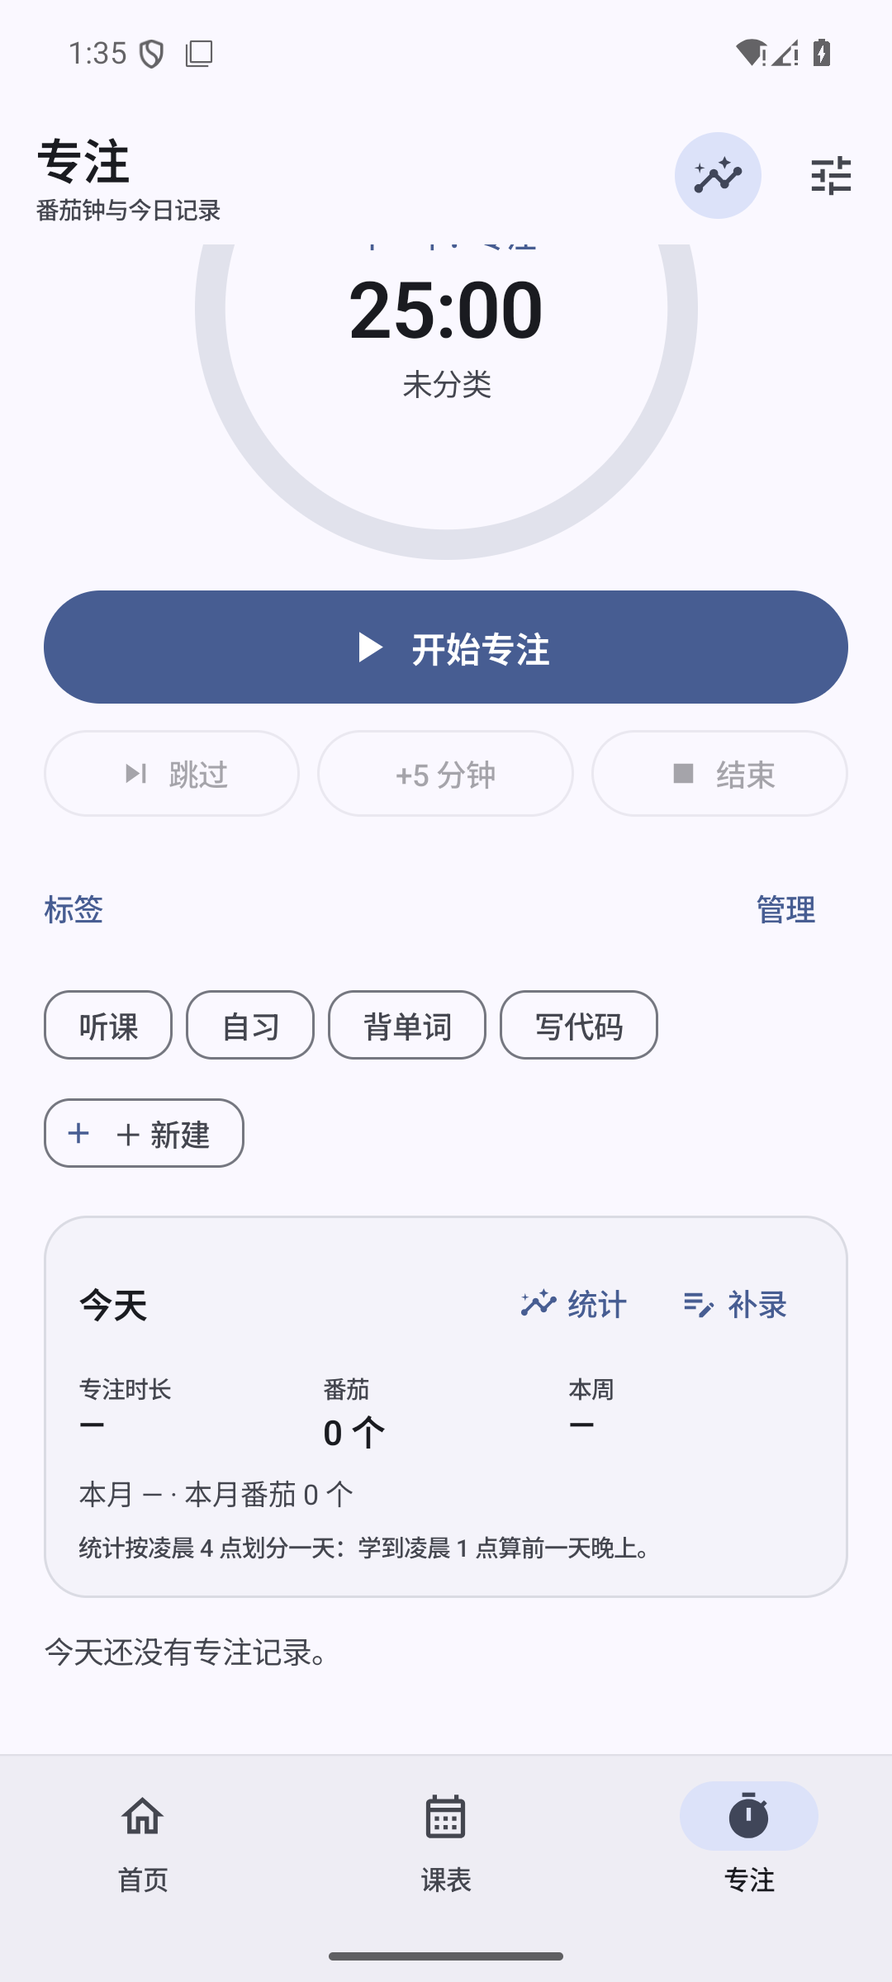
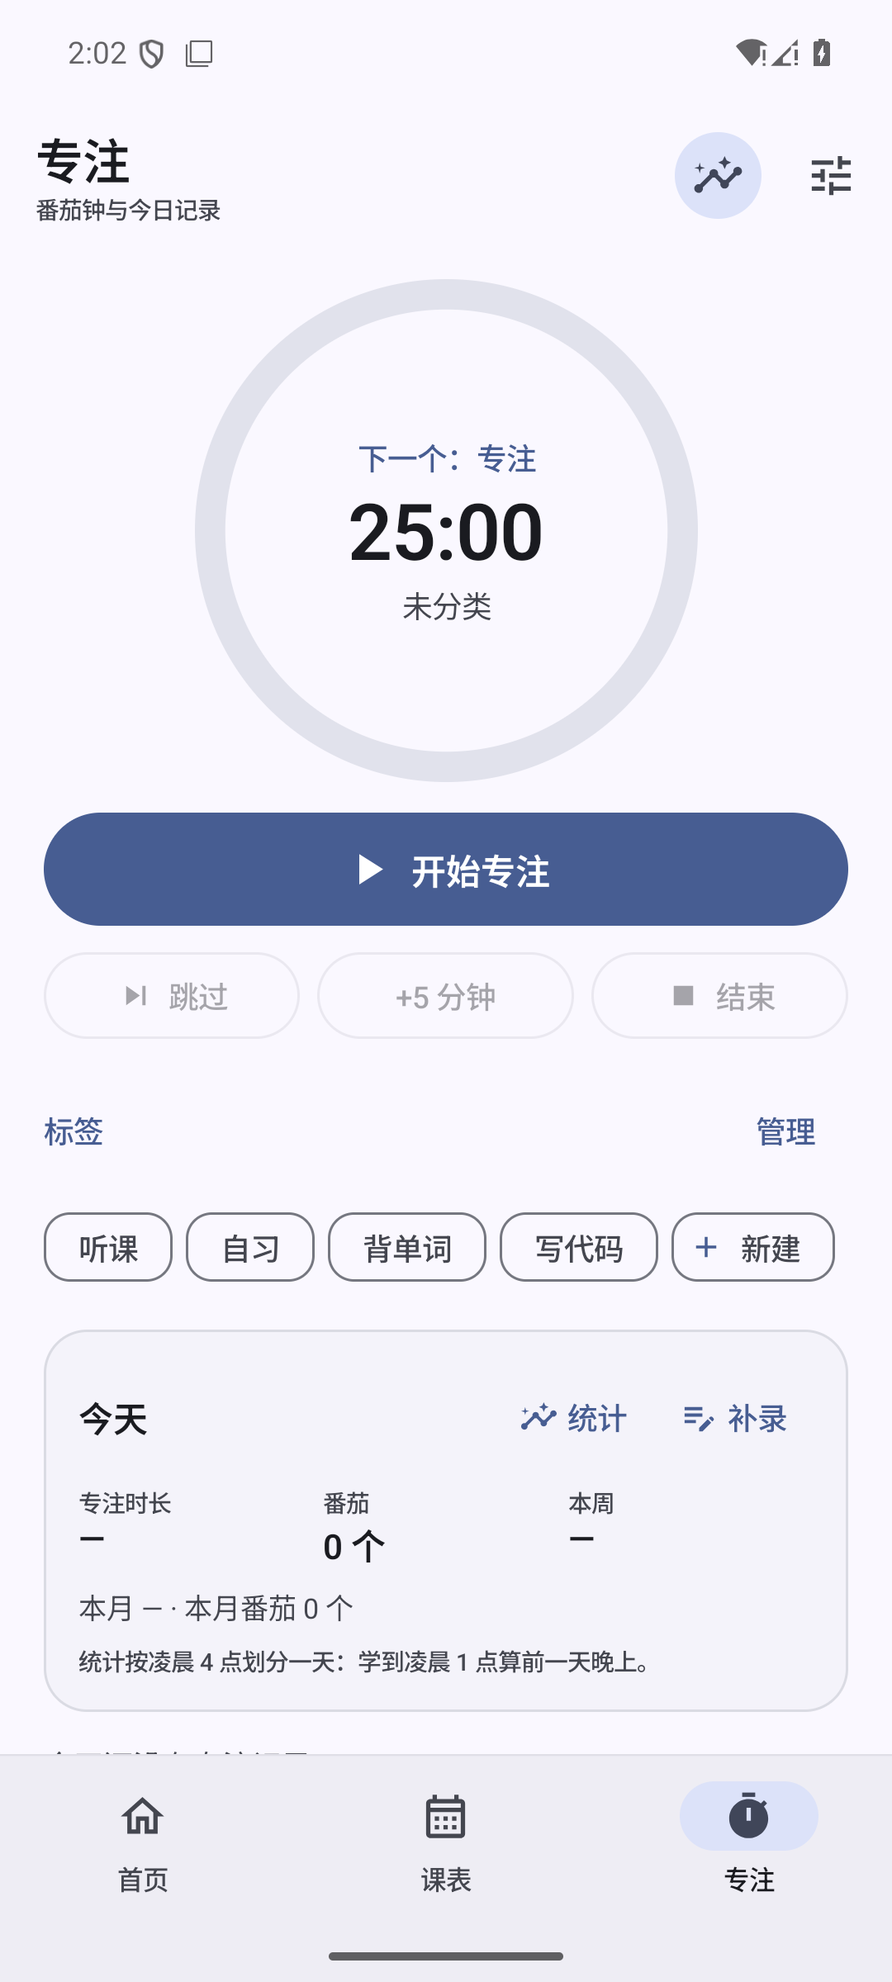
fix(m5): correct focus landing capture and tag chip

diff --git a/app/src/main/java/com/upcpocket/app/ui/settings/SettingsScreen.kt b/app/src/main/java/com/upcpocket/app/ui/settings/SettingsScreen.kt
@@ -43,7 +43,7 @@ import com.upcpocket.app.ui.components.NavigationRow
 import com.upcpocket.app.ui.components.SectionHeader
 
 /**
- * 全应用唯一设置入口。
+ * 全应用唯一设置入口；不是每项功能唯一快捷入口（校园网页、学习统计仍有各自的快捷路径）。
  *
  * 账号、图书馆登录、桌面组件、官方网页、外观和关于都在这里；不再维护“更多”
  * 页的第二套目录。插件只贡献图书馆登录区，宿主不硬编码图书馆实现。

diff --git a/app/src/test/java/com/upcpocket/app/core/HostPluginUiTest.kt b/app/src/test/java/com/upcpocket/app/core/HostPluginUiTest.kt
@@ -70,6 +70,9 @@ class HostPluginUiTest {
             listOf("timetable.week", "focus"),
             tabs.map { it.route.value },
         )
+        tabs.forEach { tab ->
+            assertNotNull("tab ${tab.entryId} 缺少已注册页面", AppGraph.ui.page(tab.route))
+        }
         assertTrue(AppGraph.ui.entriesFor(UiSurface.MORE_LEARNING).isEmpty())
 
         assertEquals(

diff --git a/feature/focus/src/main/kotlin/com/upcpocket/app/ui/focus/FocusScreen.kt b/feature/focus/src/main/kotlin/com/upcpocket/app/ui/focus/FocusScreen.kt
@@ -411,7 +411,7 @@ private fun TagSection(
             FilterChip(
                 selected = false,
                 onClick = onNew,
-                label = { Text("＋ 新建") },
+                label = { Text("新建") },
                 leadingIcon = {
                     Icon(Icons.Filled.Add, contentDescription = null, Modifier.size(16.dp))
                 },

diff --git a/docs/m5/README.md b/docs/m5/README.md
@@ -23,6 +23,8 @@ M0—M4 的认证、缓存、清理与接口语义，只重新组织入口、页
 | 专注 | 计时、今日记录、学习统计 | `:feature:focus` |
 
 设置不再作为 tab，统一从首页右上角进入。首页/课表/专注之外没有第二套“更多目录”。
+**设置入口全局唯一，但不宣称每项功能只有一个快捷路径**：校园官方网页在首页快捷卡和设置目录
+各有一个入口；学习统计在专注顶栏和今日卡片各有一个入口。两处都打开同一页面/路由，不是两套实现。
 
 设置页固定分组：
 
@@ -49,6 +51,7 @@ M0—M4 的认证、缓存、清理与接口语义，只重新组织入口、页
 | 首页电费 / 空教室 / 图书馆 | 首页“常用服务”（课表不重复出现在这里） |
 | 桌面组件由长按桌面添加 | 仍由系统桌面添加；新增设置 → 桌面组件说明与可选“添加到桌面” |
 | 古镇口电费学校页面 | 电费页保留；设置 → 校园官方网页也提供入口 |
+| 校园官方网页 | 首页“校园网页”快捷卡 / 设置 → 校园官方网页（同一页面） |
 | 桌面组件点击 | 校园卡回首页；电量直达唐岛湾查询页，稳定路由不变 |
 
 ### 1.3 功能完整性
@@ -62,6 +65,7 @@ M0—M4 的认证、缓存、清理与接口语义，只重新组织入口、页
 - 课表：正常 CAS、单周按需查询、离线缓存、验证码网页登录回退、账号归属与迟到响应隔离不变。
 - 专注：计时、今日记录、标签、统计、补录与前台服务不变；统计不再从“更多”重复出现。
 - 官方网页：新增宿主只读目录，链接来自 `docs/upc/官方入口.md`；不预填账号、不代理登录。
+  首页快捷卡与设置目录打开同一个 `OfficialWebScreen` 路由，不重复维护链接。
 - 组件：两个 2×2 RemoteViews 组件、请求路径、身份和点击身份不变；新增设置页说明/可选 pin。
 
 ### 1.4 视觉方向
@@ -102,6 +106,22 @@ M0—M4 的认证、缓存、清理与接口语义，只重新组织入口、页
 - 设置里的学校登录区只在图书馆插件贡献存在时显示。
 - 旧 `MORE_LEARNING` 贡献被静默保留但不可达；现有自动化确认没有把课表/统计再放进“学习”列表。
 
+### 2.1 路由与删除文件审计
+
+- 稳定插件页路由未改：`power.electricity`、`power.tangdaowan`、`classroom.free`、
+  `library.seat`、`library.login`、`focus`、`focus.stats`、`timetable.week` 仍全部注册。
+  `HostPluginUiTest` 现在额外断言所有底部 tab 的目标页确实存在。
+- `CampusScreen` 是旧“更多”宿主页，只承载入口列表，不包含任一官方 URL 或浏览器跳转；
+  其账号/课表/统计/图书馆登录/外观/关于能力已分别迁移到三 tab 与设置。删除的是入口页壳，
+  不是功能实现。
+- `WeChatHandoff` 在删除前的基线中没有任何调用点（`git grep` 只命中文件自身）；它既没有
+  路由，也没有 UI 按钮。删除的是不可达工具代码；没有移除任何可达的微信登录、分享或官方入口能力。
+- 既有学校外链仍保留在原功能内（如古镇口电量页、图书馆学校登录）；新增
+  `OfficialWebScreen` 只是把已核对的公开页面集中列出。没有把外链说成原生查询，也没有
+  新增未实现的校园能力。
+- 桌面组件身份未变：校园卡仍打开 `HOME`，唐岛湾电量仍打开稳定路由
+  `power.tangdaowan`；设置页只是新增组件说明与系统 pin 入口。
+
 ## 3. 截图
 
 截图均来自本会话模拟器 `emulator-5554`（Android 16 / API 36，1080×2400，Pixel 风格），
@@ -110,9 +130,9 @@ M0—M4 的认证、缓存、清理与接口语义，只重新组织入口、页
 | 文件 | 内容 |
 | --- | --- |
 | [01-home-light.png](screenshots/01-home-light.png) | 首页浅色；未登录、无历史余额 |
-| [02-settings-light.png](screenshots/02-settings-light.png) | 唯一设置入口；账号、图书馆、组件、官方网页、外观、关于 |
+| [02-settings-light.png](screenshots/02-settings-light.png) | 唯一设置入口；账号、图书馆、组件、官方网页、外观、关于（校园网页另有首页快捷卡） |
 | [03-timetable-first-run-light.png](screenshots/03-timetable-first-run-light.png) | 课表未登录第一屏；说明不会在首页后台认证 |
-| [04-focus-light.png](screenshots/04-focus-light.png) | 专注浅色；无专注记录 |
+| [04-focus-light.png](screenshots/04-focus-light.png) | 专注初始进入浅色；完整计时环、状态、开始按钮，无专注记录 |
 | [05-appearance-light.png](screenshots/05-appearance-light.png) | 配色与深浅色设置 |
 | [06-home-dark.png](screenshots/06-home-dark.png) | 首页深色 |
 | [07-timetable-preview.png](screenshots/07-timetable-preview.png) | **Debug-only 合成预览**：教学周头部 + 今日课程 |
@@ -122,6 +142,9 @@ M0—M4 的认证、缓存、清理与接口语义，只重新组织入口、页
 | [12-official-web-light.png](screenshots/12-official-web-light.png) | 学校官方网页目录 |
 | [14-home-large-font.png](screenshots/14-home-large-font.png) | 首页 1.3× 字号 |
 | [19-timetable-font-150.png](screenshots/19-timetable-font-150.png) | **Debug-only 合成预览**：课表 1.5× 字号 |
+| [20-focus-font-130.png](screenshots/20-focus-font-130.png) | 专注初始进入 1.3×；完整计时环、状态、开始按钮 |
+| [21-focus-font-150.png](screenshots/21-focus-font-150.png) | 专注初始进入 1.5×；完整计时环、状态、开始按钮 |
+| [22-home-font-150.png](screenshots/22-home-font-150.png) | 首页 1.5×；标题/服务卡文字完整，可滚动到两组服务与页脚 |
 
 合成预览由 `feature/timetable/src/debug/.../TimetablePreviewActivity.kt` 明确标注
 “本地预览 · 合成内容”，只读取内存中的 `TimetableUiState`，不创建账号/会话/缓存、不发网络请求，
@@ -130,13 +153,22 @@ M0—M4 的认证、缓存、清理与接口语义，只重新组织入口、页
 学校账号页因 `FLAG_SECURE` 不提供截图；已通过 `dumpsys window` 确认窗口 flag 含 `SECURE`，
 并只核对空表单 UI 层级。没有截取任何已填账号或密码。
 
+验收修正：此前交付的 `04-focus-light.png` 是验收脚本在专注页已向上滑动后截取的，环顶被
+固定顶栏遮住；它不是初始进入状态。本轮先强制停止并从首页进入专注，再重新截图，未通过删除
+状态文案或裁切视图规避问题。初始进入实测：顶栏副标题底边 y=273/286/293（1.0/1.3/1.5），
+计时环顶 y=338，开始按钮底边 y=1083/1091/1096，环、状态和主按钮均完整。
+
 ## 4. 验证
 - 设备：`emulator-5554` / `upcpocket_api36` / Android 16（API 36）；实际安装 Debug APK。
 - 页面：首页、设置、账号空态、课表未登录、专注、桌面组件、官方网页、外观；底部三 tab 切换。
 - 系统 Insets：宿主底部 `NavigationBar` + 各 tab 内 `Scaffold` 只消费顶部/横向 Insets，
   修正了内层重复底部 inset；手势导航栏/状态栏无遮挡。
 - 深浅色：首页浅色、深色；外观页切换“始终深色/始终浅色”后重启生效。
-- 字号：1.0×、1.3×、1.5× 实测；首页、设置、课表、专注未出现按钮/文字重叠。
+- 字号：1.0×、1.3×、1.5× 实测；首页、设置、课表、专注未出现按钮/文字重叠。专注 1.0/1.3/1.5
+  初始进入的环顶、状态与开始按钮均完整；1.5× 下 360×640dp 视口可滚动到标签/今日记录。
+- 小屏：`wm size 720x1280`、`wm density 320`（360×640dp）+ 1.5× 实测，初始显示计时环与开始按钮，
+  上滑后显示标签和今日区域；已恢复 1080×2400/420dpi。
+- 文案：标签按钮原为图标加号 + “＋ 新建”双加号，现为 Add 图标 + “新建”单加号。
 - 返回：设置 → 账号/外观/组件/官方/关于均能返回；官方网页实际打开 Chrome 后返回应用。
 - 边界：未登录、无数据、合成周网格、空“今天”、离线/失败状态代码路径；没有触发真实学校登录、
   预约、取消、签到、充值或电量查询。
@@ -146,12 +178,12 @@ M0—M4 的认证、缓存、清理与接口语义，只重新组织入口、页
 
 | 检查 | 结果 |
 | --- | --- |
-| `:app:assembleDebug` | 通过 |
-| Android Debug 单元/Compose 测试 | **50 套件 / 357 tests，0 failures / 0 errors / 0 skipped** |
-| JVM 测试（`:core:plugin-runtime:test`） | **16 tests，0 failures / 0 errors / 0 skipped** |
-| `:app:lintDebug` | **0 errors / 2 warnings**（`RedundantLabel`、`ObsoleteSdkInt`，均为既有资源提示） |
+| `:app:assembleDebug` | 通过（修正提交后复跑） |
+| Android Debug 单元/Compose 测试 | M5 首轮全量 **50 套件 / 357 tests，0 failures / 0 errors / 0 skipped**；本轮按影响范围复跑 `focus` + `app` 用例，仍 0 failures |
+| JVM 测试（`:core:plugin-runtime:test`） | **16 tests，0 failures / 0 errors / 0 skipped**（M5 首轮；本轮未改该模块，未无故重跑） |
+| `:app:lintDebug` | **0 errors / 2 warnings**（`RedundantLabel`、`ObsoleteSdkInt`，均为既有资源提示；修正提交后复跑） |
 | 模块边界 | `checkModuleBoundaries` 随构建通过 |
-| 基线 | M4 357 Android + 16 JVM 全部保留；插件 tab 断言更新为课表(5)+专注(10) |
+| 基线 | M4 357 Android + 16 JVM 全部保留；插件 tab 断言更新为课表(5)+专注(10)，并断言 tab 目标页存在 |
 
 `./gradlew test` 还会触发 release unit test；其中 Compose UI 测试依赖 debug-only
 `ui-test-manifest`，release 变体无法启动 instrumentation，属于现有测试基础设施限制，
@@ -162,8 +194,8 @@ M0—M4 的认证、缓存、清理与接口语义，只重新组织入口、页
 
 - 评审副本：`release/UPC-Pocket-M5-preview-debug.apk`
 - 构建产物：`app/build/outputs/apk/debug/app-debug.apk`
-- 大小：`65,112,090` bytes
[1 lines of base64/hex data omitted]
+- 大小：`65,718,286` bytes
[1 lines of base64/hex data omitted]
 - 该 APK 为 debug 构建、含 debug-only 合成课表预览 Activity；release 构建不会合并它。未上传、未发布。
 
 ## 6. 未验证 / 限制

diff --git a/README.md b/README.md
@@ -56,7 +56,7 @@ Debug-only 合成预览，不是真实课程。
 - **M2 开发分支（尚未发布）**把校园卡余额查询目标收束到当前统一账号：只读取登录名整串符合 8–16 位数字的本人学号，不再使用页面独立学号输入；无账号、恢复中、清理中、密文不可用或登录名不是有效学号时不联网。页面、2×2 组件和 WorkManager Worker 共用同一绑定服务；换号立即撤下旧余额，同号改密保留历史值但拒绝旧请求。组件最终写入使用 ticket 与绑定/账号代次/业务代次/快照版本门闩，迟到的旧读取不能覆盖新空态。旧 `card-balance-v1.json` 仅在用户绑定同一学号后迁移，异号/损坏/未绑定不展示。余额缓存清除与删除账号分开，清除失败会继续隐藏旧值并可在重启后重试。详见 [M2 执行记录](docs/m2/README.md)。
 - **M3 开发分支（尚未发布）**新增“课表”tab：使用当前统一账号的正常 CAS 表单认证，只在核对后的 `cas.upc.edu.cn` HTTPS 页面提交密码；缺失或明确失效的课表业务会话最多恢复一次，错误密码不循环尝试，验证码/二次验证转到学校正常网页登录。首入只查询当前教学周，切周按需查询，不遍历整学期、不周期轮询。课程按周日起算的学校周次与 ISO weekday 对齐，保留非连续节次、单双周源周次与重叠课程；未提供字段显示“未提供”。成功周按内部 accountId + 学年/学期/教学周加密/原子缓存，离线只显示已成功查询周；换号/删号清理会话与缓存，迟到响应不写回。详见 [M3 执行记录](docs/m3/README.md)。
 - **M4 开发分支（尚未发布）**图书馆座位新增“使用已保存学校账号登录”：通过正常 CAS 表单完成 libseat 统一认证、app token 与 seat token 兑换，并用 `/rest/v2/user` 核验返回本人与保存账号一致；手动 WebView 登录也经同一受控账号身份契约核验，A 账号下登录 B 不会发布或持久化。会话绑定 accountId/凭据代次，换号/删号/改密/清理失败时阻止旧会话恢复，旧恢复/旧自动/旧手动失败不能删除新登录。验证码或二次验证仍转到学校官方网页登录；没有保存账号时手动网页会话只保留内存。`nspace` 与 Chaoxing 四入口仍未原生接入，座位写操作不在本轮范围。详见 [M4 执行记录](docs/m4/README.md)。
-- **M5 开发分支（尚未发布，第一版待评审）**顶级导航收束为 **首页 / 课表 / 专注**，取消“更多”tab；账号、图书馆登录、桌面组件、校园官方网页、外观和关于统一从首页右上角设置进入。首页服务卡仍由插件贡献，课表/专注 tab 由插件贡献；旧入口映射见 [M5 记录](docs/m5/README.md)。视觉去掉玻璃叠层，课表重做教学周/今日课程/横向周网格/详情和离线/空周/失败状态；未添加 Navigation 3、AGP 9、Glance 或未实现的校园能力。
+- **M5 开发分支（尚未发布，第一版待评审）**顶级导航收束为 **首页 / 课表 / 专注**，取消“更多”tab；账号、图书馆登录、桌面组件、校园官方网页、外观和关于统一从首页右上角设置进入，校园网页同时在首页保留快捷卡。首页服务卡仍由插件贡献，课表/专注 tab 由插件贡献；旧入口映射见 [M5 记录](docs/m5/README.md)。视觉去掉玻璃叠层，课表重做教学周/今日课程/横向周网格/详情和离线/空周/失败状态；未添加 Navigation 3、AGP 9、Glance 或未实现的校园能力。
 - 部分校园服务使用 HTTP；古镇口电费保留官方页面入口，证书或网络异常时可能无法访问，不绕过证书校验。课表/CAS 只走 HTTPS，不关闭证书校验。
 - 当前轻量版不包含课程编辑、日历导出、提醒、课表桌面组件、校园卡流水、充值、数字石大或图书馆主页入口。
 

diff --git a/docs/CHANGELOG.md b/docs/CHANGELOG.md
@@ -3,13 +3,14 @@
 ## M5 · 首页/课表/专注与统一设置入口（开发分支，未发布）
 
 - 顶级导航收束为 **首页 / 课表 / 专注**：课表从“更多 → 学习”提升为插件 tab（order 5），专注 tab 保留（order 10）；删除宿主“更多”页与旧学习统计入口。
-- 首页改为日期问候、校园卡摘要和“常用服务”四宫格；账号、图书馆登录、桌面组件、官方网页、外观、关于统一收进首页右上角设置。
+- 首页改为日期问候、校园卡摘要和“常用服务”四宫格；账号、图书馆登录、桌面组件、官方网页、外观、关于统一收进首页右上角设置；校园网页同时保留首页快捷卡，学习统计同时保留专注顶栏/今日卡入口（同一路由，不是两套实现）。
 - 新增原生设置页、桌面组件说明/可选系统 pin、学校官方网页外链目录；官方链接来自既有 `docs/upc/官方入口.md`，不预填账号、不代理登录。
 - 视觉系统去掉半透明玻璃叠层/重阴影，统一 `surfaceContainerLow + 1dp outlineVariant + 20dp` 卡片、字号层级、20dp 页面边距和 filled/outlined 图标状态。
 - 课表重做教学周头部、今日课程、7 天×14 节横向周网格、重叠分栏、当前日强调、在线/缓存/空周/未查询/失败标签和课程详情；缺失字段仍显示“未提供”，不推测量纲/钟点/校区。
 - 校园卡卡片保留账号绑定、脱敏、历史值、失败、清除缓存和安全说明；安全细节改为可展开，不删除语义。账号页 `FLAG_SECURE` 与密码清空保留。
 - 插件契约未新增字段；课表/专注改用既有 `PluginBottomNav`，`MORE_LEARNING` 保留枚举兼容但不再挂载。缺插件仍由宿主原子裁剪，无空 tab。
 - 修复宿主底部导航与内层 Scaffold 重复消费底部 Insets；`adjustResize` 已加入 Manifest。
+- 验收修正：初始专注截图此前在页面已滚动后截取，重拍 1.0×/1.3×/1.5× 初始进入；实测环顶、状态、开始按钮完整，不需裁掉文案。标签按钮从“图标 + ＋ 新建”改为单加号“图标 + 新建”。补测 360×640dp + 1.5× 可滚动。文档明确校园网页/统计存在快捷入口重复，并审计 `CampusScreen`（仅入口壳）与 `WeChatHandoff`（基线无调用点）删除不丢功能；稳定插件路由和组件身份不变。
 - 验证：按项目基线 `testDebugUnitTest` **50 套件 / 357 tests，0 failures/errors/skipped**；JVM 16 tests 通过；`assembleDebug`、`lintDebug` 通过（0 errors / 2 warnings）；模拟器 Android 16 实测浅/深色、1.0×/1.3×/1.5× 字号和主要页面/返回。详见 [M5 记录](m5/README.md)。
 - 限制：未重跑真实学校登录/只读查询，未做 release/R8、真机、其他 ROM 或第三方桌面 pin；截图中的课表为 Debug-only 明确标注的合成预览。
 

diff --git a/AGENTS.md b/AGENTS.md
@@ -8,7 +8,7 @@
 - 当前主线为 UPC Pocket Lightly，应用标识 `com.upcpocket.app`。保留校园卡余额、唐岛湾电量、两校区空闲教室、图书馆座位、专注、只读课表与两个 2×2 RemoteViews 组件；古镇口通过学校页面访问。校园卡流水、数字石大和图书馆主页已移除；课表为 M3 新增的只读能力，不包含编辑、导出、提醒或桌面组件。原计划为历史原文，当前范围见 README。新增校园能力必须核对 UPC 来源，不能套用郑大接口、认证和宿舍规则。
 - 用户的新指令优先于历史计划。校园受保护接口的授权范围以实际取得的授权为准；本地开发、构建或引入技能不代表获得校园接口授权。
 - 当前实现进度：M0 模块化与插件化已完成并经模拟器回归，记录见 `docs/m0/`；M1 统一账号本机加密保存、代次与失效/清理基础已完成，记录见 `docs/m1/`；M2 校园卡余额强关联、旧快照迁移与页面/组件/Worker 同目标已完成，记录见 `docs/m2/`；M3 课表真实 CAS 认证、学期/教学周查询、周网格、今日课程、只读缓存与离线查看已实现并完成模拟器及本人账号只读验证，记录见 `docs/m3/`；M4 图书馆统一认证、本人校验与账号/代次绑定已完成，记录见 `docs/m4/`；M5 三 tab 首页/课表/专注、统一设置入口、课表周网格与视觉第一版已实现并在模拟器验收，记录见 `docs/m5/`，仍是待用户评审的第一版。M1 保存成功只表示“已保存，尚未验证”，不得表述为学校认证通过或已取得官方身份。
-- 页面安排、导航与视觉设计当前以 M5 第一版为基线：三 tab「首页 / 课表 / 专注」，账号/图书馆登录/组件/官方网页/外观/关于统一在首页右上角设置；改变入口时同步更新 `docs/m5/README.md` 的旧→新映射与缺插件说明。M5 不引入 Navigation 3、AGP 9、Glance 或数据层迁移，也不重启“更多”第二套目录。
+- 页面安排、导航与视觉设计当前以 M5 第一版为基线：三 tab「首页 / 课表 / 专注」，账号/图书馆登录/组件/官方网页/外观/关于统一在首页右上角设置；设置入口唯一不等于每个功能只有一条快捷路径（校园网页还有首页卡，统计还有专注顶栏/今日卡，均指向同一路由）。改变入口时同步更新 `docs/m5/README.md` 的旧→新映射与缺插件说明。M5 不引入 Navigation 3、AGP 9、Glance 或数据层迁移，也不重启“更多”第二套目录。
 - 不将账号密码、Cookie、Token、私钥或未脱敏的学生业务数据写入源码、文档、日志和测试样本。
 
 ## Android Skills 使用规则
